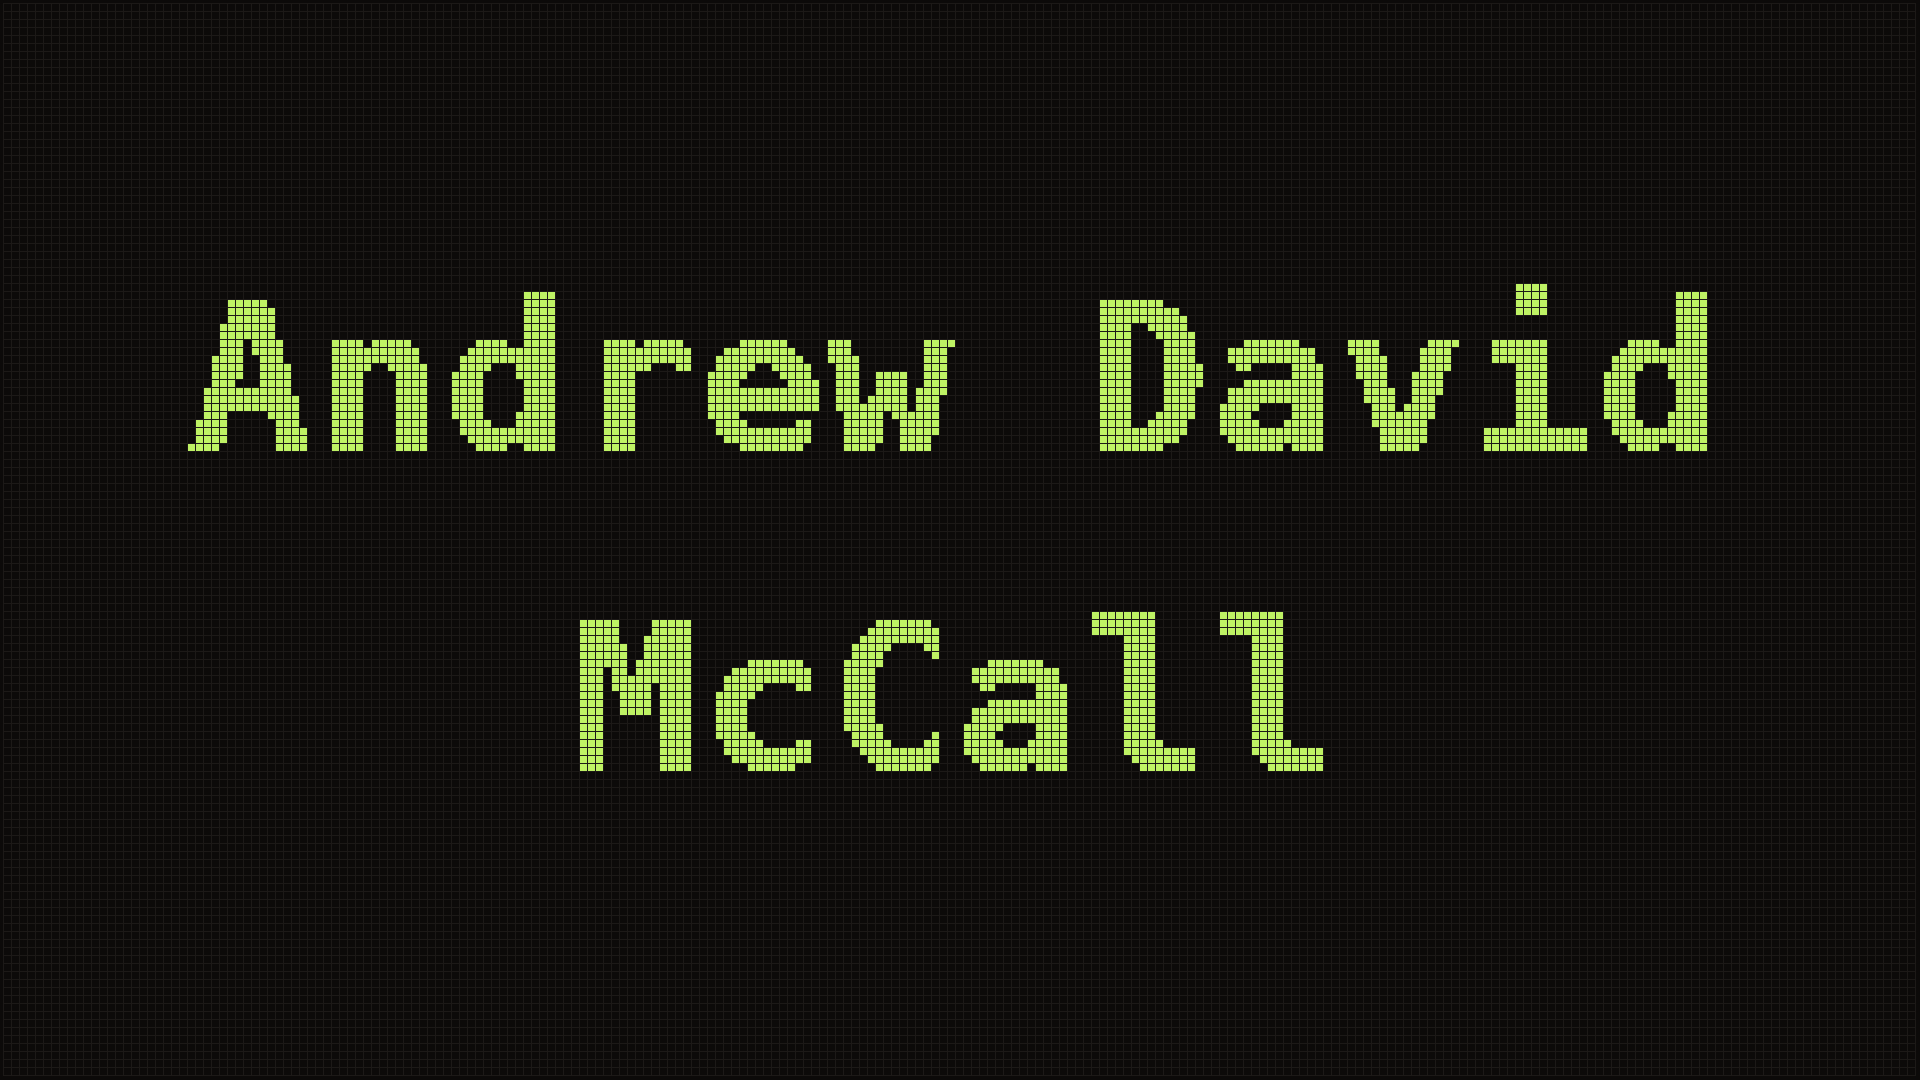
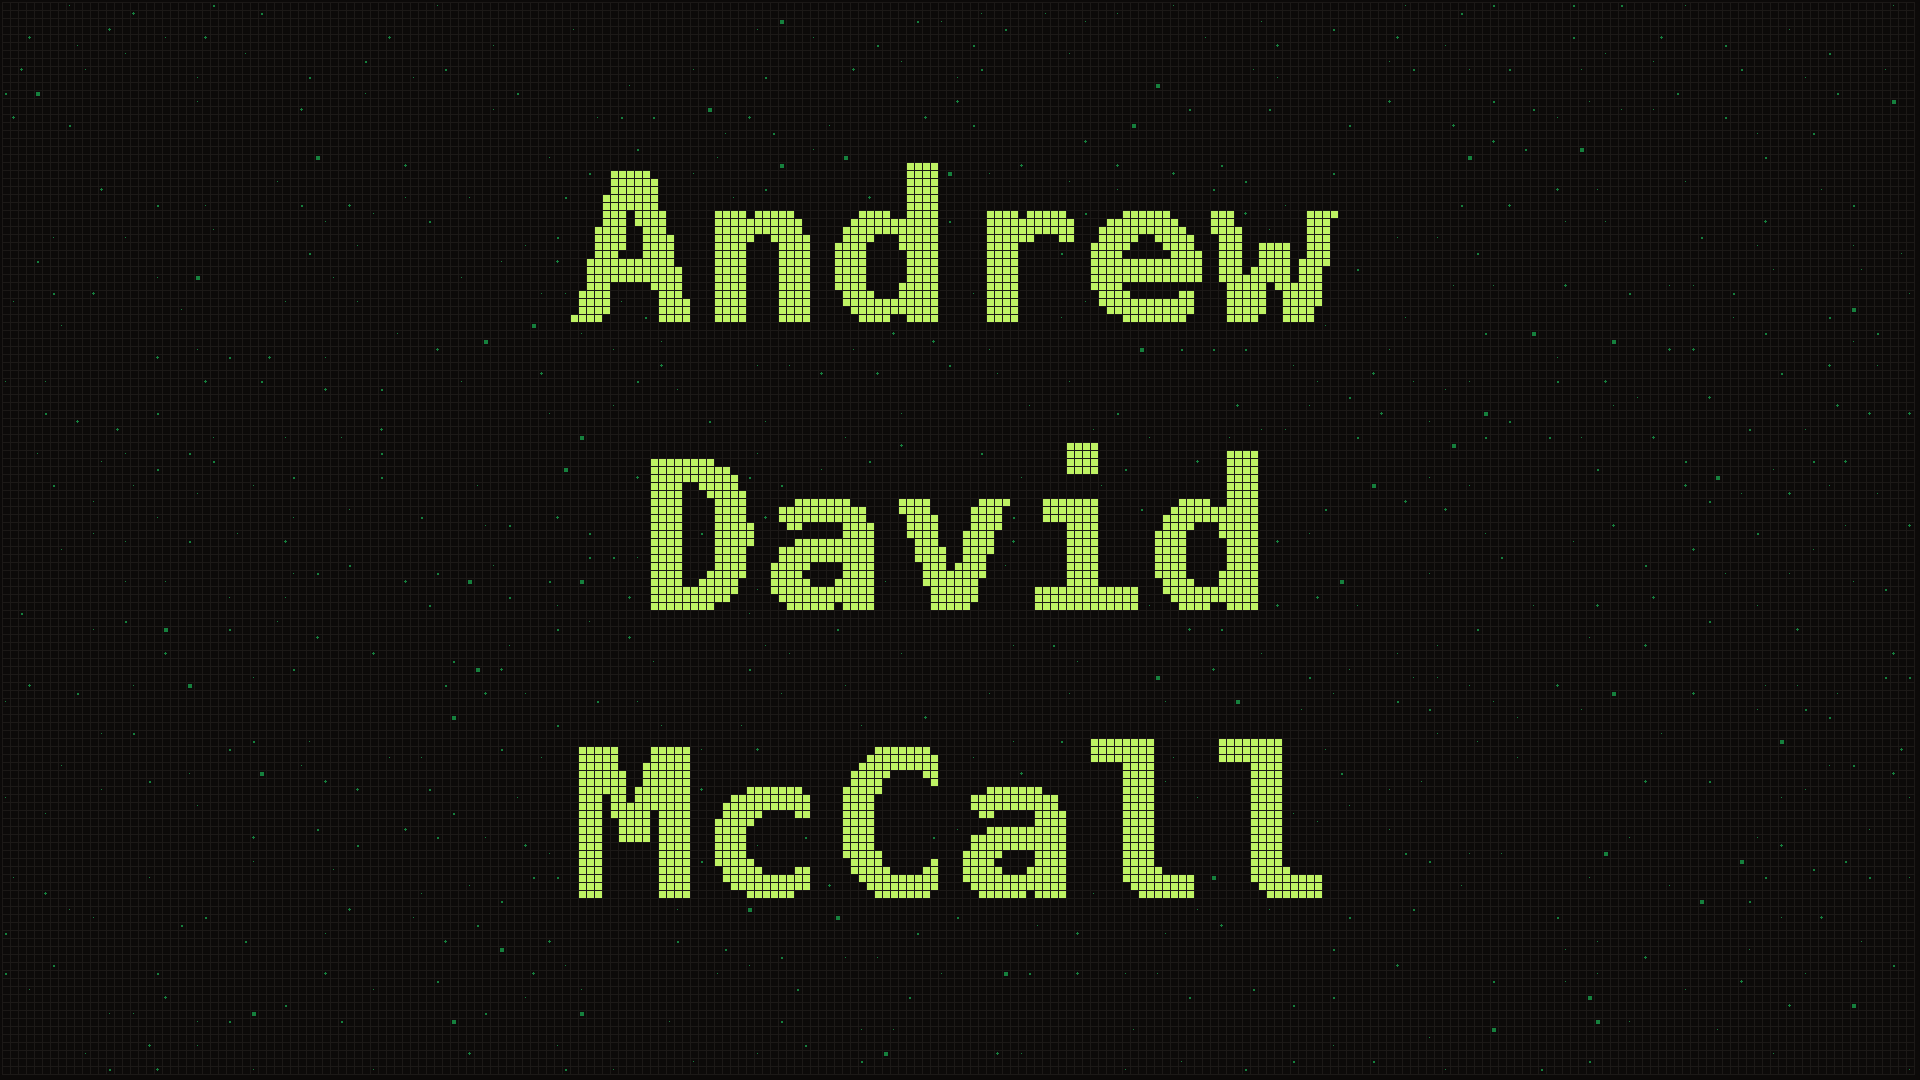
bg stars

Changed region(s): [[0.0938, 0.1528, 0.9062, 0.8556]]

diff --git a/frontend/wasm/src/lib.rs b/frontend/wasm/src/lib.rs
@@ -27,6 +27,10 @@
 //! invisible, but feeding the life rule at the erosion frontier — until the
 //! ground under it is healed back.
 //!
+//! A sparse field of green background stars — varied faint specks kept 8px
+//! clear of the name and at least 16px apart — is scattered behind everything
+//! on load, and tops itself up naturally over any ground a resize exposes.
+//!
 //! The sim opens by spelling "Andrew David McCall" in live cells (Menlo Bold
 //! pre-rasterised to 16x32 bitmaps, integer-scaled to fit the viewport), holds
 //! the name for a moment, then evolves it under B3/S23. Comets fly through
@@ -72,6 +76,9 @@ static mut TILE_A: [u8; MAX_CELLS] = [0; MAX_CELLS];
 /// erode, the cell there counts as alive every generation — until the ground
 /// under it is healed, which makes it mortal again.
 static mut PERMA: [u8; MAX_CELLS] = [0; MAX_CELLS];
+/// Static background stars: 1 where a star sits, 0 elsewhere. Scattered once
+/// on init and topped up on resize; never touched by the Life step.
+static mut STARS: [u8; MAX_CELLS] = [0; MAX_CELLS];
 
 /// Seconds the stamped name stays frozen before evolution begins.
 const HOLD: f32 = 2.0;
@@ -113,6 +120,33 @@ const MARGIN_HEAL: u8 = 16;
 
 const BG: [u8; 3] = [0x0c, 0x0a, 0x09]; // stone-950
 const GRID_LINE: [u8; 3] = [0x1c, 0x19, 0x17]; // stone-900
+
+/// Background stars scattered across empty ground at load. Drawn in the
+/// darkest green a cell ever reaches (`cell_colour`'s oldest branch) at a
+/// faint fixed alpha, so they read as a distant field behind the name rather
+/// than as live cells.
+const STAR_COLOUR: [u8; 3] = [0x15, 0x80, 0x3d]; // green-700
+const STAR_ALPHA: u8 = 200;
+/// Star field spacing, in framebuffer pixels: no star lands within
+/// `STAR_WORD_PX` of the stamped name, and stars keep at least `STAR_MIN_PX`
+/// between one another. Placement aims for roughly `STAR_TYP_PX` average
+/// spacing, so the field stays sparse well above the hard minimum.
+const STAR_WORD_PX: usize = 8;
+const STAR_MIN_PX: usize = 16;
+const STAR_TYP_PX: usize = 34;
+
+/// A star type's brightness and shape: `alpha` (never above STAR_ALPHA) and a
+/// 4x4 bitmap packed as four 4-bit rows, MSB = leftmost pixel, top row first.
+/// Types range from a lone faint pixel through a bright filled square, so the
+/// scattered field reads as varied points of depth.
+fn star_kind(ty: u8) -> (u8, u16) {
+    match ty {
+        1 => (120, 0x0400),        // faint single pixel
+        2 => (160, 0x0660),        // small 2x2 dot
+        3 => (STAR_ALPHA, 0x4E40), // 3px twinkle: a centred plus
+        _ => (STAR_ALPHA, 0xFFFF), // bright filled 4x4 square
+    }
+}
 
 /// "Static" fill density: when the static button reseeds the board with noise,
 /// a cell is born where `rand() % 16` lands under this — roughly 40% of the
@@ -335,6 +369,73 @@ fn stamp_text(cells: &mut [u8], gw: usize, gh: usize, lay: &Layout) {
             stamp_glyph(cells, gw, gh, x + i * GLYPH_W * s, y, ch, s);
         }
         y += (GLYPH_H + LINE_GAP) * s;
+    }
+}
+
+/// xorshift32 step, shared by the sim RNG and the star scatterer. Advances
+/// `state` and returns the new value; `state` must never be zero.
+#[inline]
+fn xorshift(state: &mut u32) -> u32 {
+    let mut x = *state;
+    x ^= x << 13;
+    x ^= x >> 17;
+    x ^= x << 5;
+    *state = x;
+    x
+}
+
+/// True if any cell within Chebyshev distance `r` of (x, y) — a (2r+1)² square
+/// clipped to the grid — is non-zero. Used to keep stars clear of the name and
+/// of each other.
+fn near(buf: &[u8], gw: usize, gh: usize, x: usize, y: usize, r: usize) -> bool {
+    let y0 = y.saturating_sub(r);
+    let y1 = (y + r).min(gh - 1);
+    let x0 = x.saturating_sub(r);
+    let x1 = (x + r).min(gw - 1);
+    for ny in y0..=y1 {
+        let row = ny * gw;
+        for nx in x0..=x1 {
+            if buf[row + nx] > 0 {
+                return true;
+            }
+        }
+    }
+    false
+}
+
+/// Scatter background stars into empty ground, driving placement off `rng`.
+/// Every candidate is rejected if it lands within `STAR_WORD_PX` of the
+/// stamped name or `STAR_MIN_PX` of an existing star, so the field keeps its
+/// spacing however dense the attempts get; each survivor takes a random type
+/// (weighted toward the faint specks). Adds to whatever is already in `stars`:
+/// empty on init, the remapped survivors on resize, so freshly exposed ground
+/// fills in at the same density without disturbing the stars already placed.
+fn scatter_stars(rng: &mut u32, stars: &mut [u8], mask: &[u8], gw: usize, gh: usize, pitch: usize) {
+    if gw == 0 || gh == 0 {
+        return;
+    }
+    // Pixel spacings rounded up to whole cells (at least one).
+    let word_gap = STAR_WORD_PX.div_ceil(pitch).max(1);
+    let min_gap = STAR_MIN_PX.div_ceil(pitch).max(1);
+    let typ_gap = STAR_TYP_PX.div_ceil(pitch).max(min_gap);
+    // One attempt per typical-spacing cell of area; min-gap rejection then
+    // thins the field to its spacing-limited density in this single pass.
+    let attempts = (gw * gh) / (typ_gap * typ_gap) + 1;
+    for _ in 0..attempts {
+        let x = xorshift(rng) as usize % gw;
+        let y = xorshift(rng) as usize % gh;
+        if near(mask, gw, gh, x, y, word_gap) || near(stars, gw, gh, x, y, min_gap) {
+            continue;
+        }
+        // Weighted toward the faint specks, with the bright square rarest, so
+        // the field looks like real depth rather than a uniform stipple.
+        let ty = match xorshift(rng) % 16 {
+            0..=6 => 1,   // faint single pixel
+            7..=11 => 2,  // small 2x2 dot
+            12..=14 => 3, // 3px twinkle (plus)
+            _ => 4,       // bright 4x4 square
+        };
+        stars[y * gw + x] = ty;
     }
 }
 
@@ -694,12 +795,7 @@ static mut SIM: Sim = Sim {
 
 impl Sim {
     fn rand(&mut self) -> u32 {
-        let mut x = self.rng;
-        x ^= x << 13;
-        x ^= x >> 17;
-        x ^= x << 5;
-        self.rng = x;
-        x
+        xorshift(&mut self.rng)
     }
 
     fn rand_f(&mut self) -> f32 {
@@ -721,6 +817,7 @@ impl Sim {
         mask: &mut [u8],
         tile_a: &mut [u8],
         perma: &mut [u8],
+        stars: &mut [u8],
     ) {
         let lay = plan_layout(w, h);
         self.w = w;
@@ -741,6 +838,8 @@ impl Sim {
         cells.fill(0);
         let n = self.gw * self.gh;
         cells[..n].copy_from_slice(&mask[..n]);
+        stars[..n].fill(0);
+        scatter_stars(&mut self.rng, stars, mask, self.gw, self.gh, self.pitch);
         self.ready = true;
     }
 
@@ -756,6 +855,7 @@ impl Sim {
         mask: &mut [u8],
         tile_a: &mut [u8],
         perma: &mut [u8],
+        stars: &mut [u8],
     ) {
         let (ogw, ogh) = (self.gw, self.gh);
         self.w = w;
@@ -764,9 +864,18 @@ impl Sim {
         self.gh = grid_dim(h, self.pitch).min(MAX_GH);
         self.ox = (w.saturating_sub(self.gw * self.pitch + 1)) / 3;
         self.oy = (h.saturating_sub(self.gh * self.pitch + 1)) / 3;
-        for (buf, fill) in [(cells, 0u8), (mask, 0), (tile_a, 255), (perma, 0)] {
+        for (buf, fill) in [
+            (&mut *cells, 0u8),
+            (&mut *mask, 0),
+            (&mut *tile_a, 255),
+            (&mut *perma, 0),
+            (&mut *stars, 0),
+        ] {
             remap_grid(buf, ogw, ogh, self.gw, self.gh, fill);
         }
+        // Fresh ground exposed by a grow starts starless; scatter naturally
+        // fills it in at the field's density, leaving the survivors in place.
+        scatter_stars(&mut self.rng, stars, mask, self.gw, self.gh, self.pitch);
     }
 
     /// Spontaneous births, heavily biased to the cells under the name so it
@@ -991,11 +1100,12 @@ pub extern "C" fn tick(width: usize, height: usize, dt: f32) {
     let mask: &mut [u8] = unsafe { &mut *addr_of_mut!(TEXT_MASK) };
     let tile_a: &mut [u8] = unsafe { &mut *addr_of_mut!(TILE_A) };
     let perma: &mut [u8] = unsafe { &mut *addr_of_mut!(PERMA) };
+    let stars: &mut [u8] = unsafe { &mut *addr_of_mut!(STARS) };
 
     if !sim.ready {
-        sim.init(width, height, cells, mask, tile_a, perma);
+        sim.init(width, height, cells, mask, tile_a, perma, stars);
     } else if sim.w != width || sim.h != height {
-        sim.resize(width, height, cells, mask, tile_a, perma);
+        sim.resize(width, height, cells, mask, tile_a, perma, stars);
     }
     sim.t += dt;
 
@@ -1095,24 +1205,56 @@ pub extern "C" fn tick(width: usize, height: usize, dt: f32) {
 
     // Cells: skip opaque dead ground (the background already shows there);
     // everything else fills its pitch-1 square interior, also in-bounds.
+    // A dead tile carrying a star draws instead a small centred green speck,
+    // never wider than 4px, over whatever the ground under it shows.
     let cell_px = pitch - 1;
+    // Every star pattern lives in a 4x4 box, centred in the cell (clipped on
+    // the smallest pitches where the interior is under 4px).
+    let star_box = cell_px.min(4);
+    let star_off = (cell_px - star_box) / 2;
     for cy in 0..gh {
         let y0 = (oy + cy * pitch + 1) * width + ox + 1;
         for cx in 0..gw {
             let idx = cy * gw + cx;
             let age = cells[idx];
             let a = tile_a[idx];
-            if age == 0 && a == 255 {
+            let sty = if age == 0 { stars[idx] } else { 0 };
+            if age == 0 && a == 255 && sty == 0 {
                 continue;
             }
-            let c = if age > 0 { cell_colour(age) } else { BG };
-            let px = u32::from_le_bytes([c[0], c[1], c[2], a]);
-            let mut row = y0 + cx * pitch;
-            for _ in 0..cell_px {
-                for rx in 0..cell_px {
-                    fb[row + rx] = px;
+            // Base interior: live cells and eroding ground paint the whole
+            // square; an intact star tile leaves the opaque background showing.
+            if age > 0 || a < 255 {
+                let c = if age > 0 { cell_colour(age) } else { BG };
+                let px = u32::from_le_bytes([c[0], c[1], c[2], a]);
+                let mut row = y0 + cx * pitch;
+                for _ in 0..cell_px {
+                    for rx in 0..cell_px {
+                        fb[row + rx] = px;
+                    }
+                    row += width;
                 }
-                row += width;
+            }
+            // Star speck: its type sets shape and brightness, but it never
+            // outshines the ground it sits on, so erosion reveals the page
+            // through it too.
+            if sty > 0 {
+                let (ka, pat) = star_kind(sty);
+                let px = u32::from_le_bytes([
+                    STAR_COLOUR[0],
+                    STAR_COLOUR[1],
+                    STAR_COLOUR[2],
+                    a.min(ka),
+                ]);
+                let base = y0 + cx * pitch + star_off * width + star_off;
+                for sy in 0..star_box {
+                    let row = base + sy * width;
+                    for sx in 0..star_box {
+                        if (pat >> ((3 - sy) * 4 + (3 - sx))) & 1 == 1 {
+                            fb[row + sx] = px;
+                        }
+                    }
+                }
             }
         }
     }
@@ -1456,6 +1598,67 @@ mod tests {
         let sd = 1.0 / (INIT_TPS - 1.0);
         let (_, slow, _) = ease_target_rate(INIT_TPS - 1.0, 3.0, 0.0, 0.0, sd * 0.25);
         assert_eq!(slow, 0.0, "headroom clears overload credit");
+    }
+
+    #[test]
+    fn stars_scatter_spaced_clear_of_name_and_varied() {
+        let (gw, gh, pitch) = (200usize, 120usize, 8usize);
+        let mut mask = vec![0u8; gw * gh];
+        for y in 50..70 {
+            for x in 80..120 {
+                mask[y * gw + x] = 1; // a name-shaped block in the middle
+            }
+        }
+        let mut stars = vec![0u8; gw * gh];
+        let mut rng = 0x1234_5678u32;
+        scatter_stars(&mut rng, &mut stars, &mask, gw, gh, pitch);
+
+        let pts: Vec<(usize, usize)> = (0..gh)
+            .flat_map(|y| (0..gw).map(move |x| (x, y)))
+            .filter(|&(x, y)| stars[y * gw + x] > 0)
+            .collect();
+        assert!(pts.len() > 20, "scattered too few stars: {}", pts.len());
+
+        let word_gap = STAR_WORD_PX.div_ceil(pitch).max(1);
+        for &(x, y) in &pts {
+            assert!(
+                !near(&mask, gw, gh, x, y, word_gap),
+                "star at {:?} sits within {STAR_WORD_PX}px of the name",
+                (x, y)
+            );
+        }
+        // Every pair clears the 16px minimum (Chebyshev distance × pitch).
+        for i in 0..pts.len() {
+            for j in i + 1..pts.len() {
+                let cheb = pts[i].0.abs_diff(pts[j].0).max(pts[i].1.abs_diff(pts[j].1));
+                assert!(
+                    cheb * pitch >= STAR_MIN_PX,
+                    "stars {:?} and {:?} only {}px apart",
+                    pts[i],
+                    pts[j],
+                    cheb * pitch
+                );
+            }
+        }
+        // The field mixes types, and each renders inside a 4x4 box.
+        let mut kinds = [0u32; 5];
+        for &(x, y) in &pts {
+            let ty = stars[y * gw + x];
+            kinds[ty as usize] += 1;
+            let (a, pat) = star_kind(ty);
+            assert!(a <= STAR_ALPHA && pat != 0);
+        }
+        assert!(
+            kinds[1..].iter().filter(|&&c| c > 0).count() >= 2,
+            "expected multiple star types, got {kinds:?}"
+        );
+        // A second pass (the resize top-up) only adds; it never moves a star.
+        let before = stars.clone();
+        scatter_stars(&mut rng, &mut stars, &mask, gw, gh, pitch);
+        assert!(
+            before.iter().zip(&stars).all(|(&b, &a)| b == 0 || b == a),
+            "top-up disturbed an existing star"
+        );
     }
 
     #[test]
